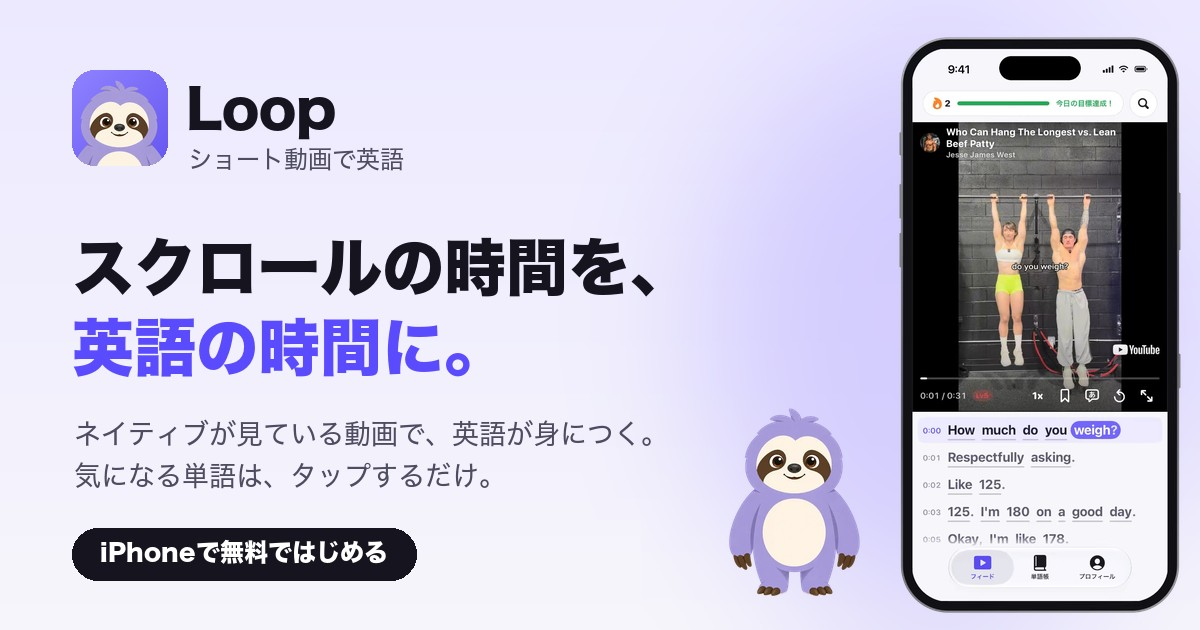
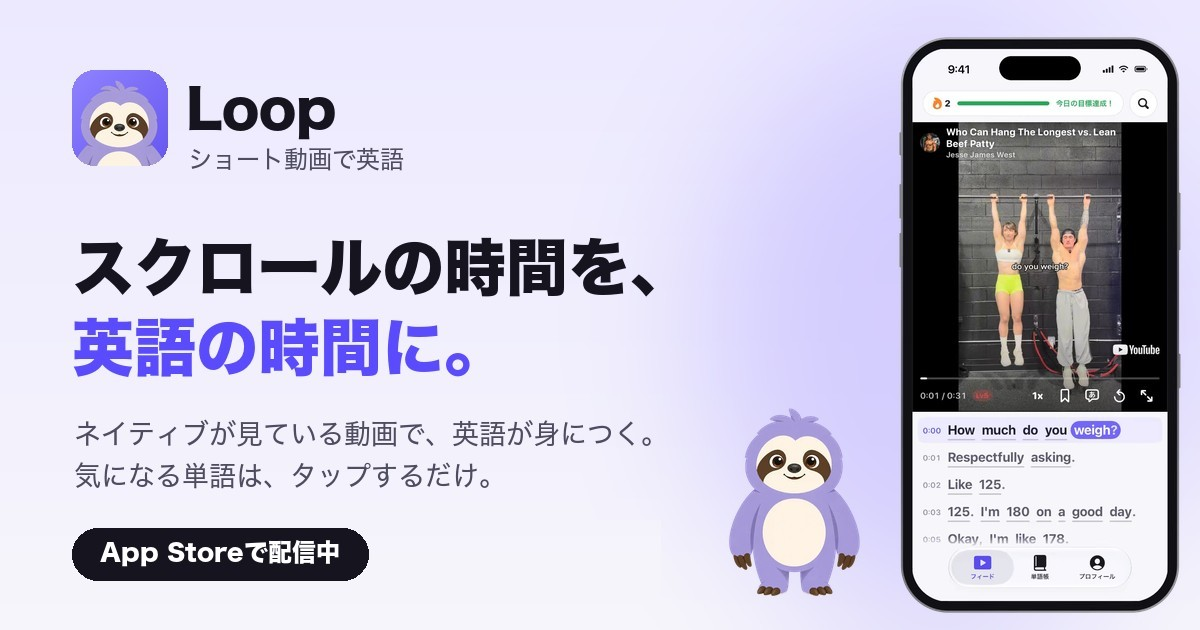
Landing: no prices, light only, the feed screen first; header button 「はじめる」

Changed region(s): [[0.0617, 0.8143, 0.37, 0.9349]]

diff --git a/index.html b/index.html
@@ -6,9 +6,8 @@
 <title>Loop — ショート動画で英語｜スクロールの時間を、英語の時間に。</title>
 <meta name="description" content="Loopは、ネイティブが本当に見ているショート動画で英語が身につくiPhoneアプリ。字幕の単語をタップすれば、その場面での意味がすぐわかる。保存した単語は、出会った動画の場面と一緒に復習できます。">
 <link rel="canonical" href="https://loop-eigo.pages.dev/">
-<meta name="theme-color" content="#F6F5FB" media="(prefers-color-scheme: light)">
-<meta name="theme-color" content="#0E0E14" media="(prefers-color-scheme: dark)">
-<meta name="color-scheme" content="light dark">
+<meta name="theme-color" content="#F6F5FB">
+<meta name="color-scheme" content="light">
 
 <!-- Safari on iOS: the native "App Store で見る" banner. -->
 <meta name="apple-itunes-app" content="app-id=6817213177">
@@ -27,7 +26,7 @@
 <meta property="og:locale" content="ja_JP">
 <meta name="twitter:card" content="summary_large_image">
 
-<link rel="preload" as="image" href="assets/demo-poster.webp">
+<link rel="preload" as="image" href="assets/shot-feed.webp">
 <link rel="stylesheet" href="assets/landing.css">
 <script>document.documentElement.classList.add('js')</script>
 
@@ -41,8 +40,7 @@
   "description": "ネイティブが見ているショート動画で英語が身につくiPhoneアプリ。",
   "url": "https://loop-eigo.pages.dev/",
   "downloadUrl": "https://apps.apple.com/jp/app/id6817213177",
-  "image": "https://loop-eigo.pages.dev/assets/icon-256.png",
-  "offers": { "@type": "Offer", "price": "0", "priceCurrency": "JPY" }
+  "image": "https://loop-eigo.pages.dev/assets/icon-256.png"
 }
 </script>
 </head>
@@ -57,7 +55,7 @@
       <img src="assets/icon-256.png" width="36" height="36" alt="">
       <span>Loop</span>
     </a>
-    <a class="top__cta" href="get/?s=site-header">無料ではじめる</a>
+    <a class="top__cta" href="get/?s=site-header">はじめる</a>
   </div>
 </header>
 
@@ -80,19 +78,12 @@
           <a class="badge" href="get/?s=site-hero">
             <img src="assets/appstore-badge.svg" width="152" height="56" alt="App Store からダウンロード">
           </a>
-          <p class="get__note">無料ではじめられます<span class="pc" aria-hidden="true">・</span><br class="sp">iPhone専用（iOS 17以降）</p>
         </div>
       </div>
 
       <div class="hero__visual">
         <div class="glow" aria-hidden="true"></div>
-        <!-- The app in use: the founder's recording, rendered with a transparent
-             background (HEVC with alpha). Only WebKit plays that with its alpha, so
-             landing.js adds the video source there; everywhere else, and with Reduce
-             Motion, the still frame (the poster) stays. -->
-        <video class="demo" id="demo" muted loop playsinline preload="none"
-               poster="assets/demo-poster.webp" width="720" height="1080"
-               aria-label="Loopの画面：動画の字幕の単語をタップして、意味を保存するところ"></video>
+        <figure class="screen screen--hero"><img src="assets/shot-feed.webp" width="600" height="1128" alt="フィード：ショート動画と、単語ごとに光る英語字幕と日本語訳"></figure>
         <img class="hero__sloth" src="assets/mascot.webp" width="480" height="480" alt="">
       </div>
     </div>
@@ -121,7 +112,15 @@
           <h3 class="h3">見る</h3>
           <p>おすすめのショート動画を、いつものようにスクロール。英語の字幕と日本語訳つきで、いまどの単語を話しているかがひと目でわかります。</p>
         </div>
-        <figure class="screen"><img src="assets/shot-feed.webp" width="600" height="1128" loading="lazy" alt="フィード：ショート動画と、単語ごとに光る英語字幕と日本語訳"></figure>
+        <!-- The app in use: the founder's recording, rendered with a transparent
+             background (HEVC with alpha). Only WebKit plays that with its alpha, so
+             landing.js adds the video source there; everywhere else, and with Reduce
+             Motion, the still frame (the poster) stays. -->
+        <figure class="demo-wrap">
+          <video class="demo" id="demo" muted loop playsinline preload="none"
+                 poster="assets/demo-poster.webp" width="720" height="1080"
+                 aria-label="Loopの画面：動画の字幕の単語をタップして、意味を保存するところ"></video>
+        </figure>
       </article>
 
       <article class="step step--flip reveal">
@@ -223,29 +222,6 @@
     </div>
   </section>
 
-  <!-- ===================================================== Pricing -->
-  <section class="pricing" id="pricing">
-    <div class="wrap">
-      <h2 class="h2 center">料金</h2>
-      <p class="sub center"><span class="nb">無料ではじめて、</span><span class="nb">続けたくなったらプレミアムへ。</span></p>
-      <div class="plans">
-        <div class="plan plan--best reveal">
-          <p class="plan__tag">いちばんお得</p>
-          <h3>年額プラン</h3>
-          <p class="plan__price">¥2,980<span>／年</span></p>
-          <p class="plan__per">1か月あたり 約¥248</p>
-          <p class="plan__trial">1週間の無料トライアルつき</p>
-        </div>
-        <div class="plan reveal">
-          <h3>月額プラン</h3>
-          <p class="plan__price">¥490<span>／月</span></p>
-          <p class="plan__per">いつでも解約できます</p>
-        </div>
-      </div>
-      <p class="fine">プレミアムでは、動画も単語の意味も単語帳も、制限なく使えます。料金は税込です。解約はiPhoneの「設定」からいつでも可能で、無料トライアル中に解約すれば料金はかかりません。</p>
-    </div>
-  </section>
-
   <!-- ===================================================== FAQ -->
   <section class="faq" id="faq">
     <div class="wrap wrap--narrow">
@@ -259,20 +235,12 @@
         <p>はい。動画はLv1〜Lv5のレベルに分かれていて、日本語訳を表示したり、再生速度を落としたりできます。わからない単語はタップすれば、その場面での意味がわかります。</p>
       </details>
       <details>
-        <summary>無料で使えますか？</summary>
-        <p>無料ではじめられます。すべての機能を制限なく使うには、プレミアム（年額¥2,980・1週間の無料トライアルつき、または月額¥490）をご利用ください。</p>
-      </details>
-      <details>
         <summary>アカウント登録は必要ですか？</summary>
         <p>必要ありません。保存した単語や学習の記録は、お使いのiPhoneの中に保存されます。</p>
       </details>
       <details>
         <summary>Androidでも使えますか？</summary>
         <p>いまはiPhone専用です（iOS 17以降）。</p>
-      </details>
-      <details>
-        <summary>解約するには？</summary>
-        <p>iPhoneの「設定」→ Apple ID →「サブスクリプション」→「Loop」から解約できます。現在の期間が終わる24時間前までに解約すると、次回の更新はされません。</p>
       </details>
       <p class="faq__more">そのほかのご質問は <a href="support/">サポート</a> へ。</p>
     </div>
@@ -286,7 +254,6 @@
       <a class="badge" href="get/?s=site-footer">
         <img src="assets/appstore-badge.svg" width="152" height="56" alt="App Store からダウンロード">
       </a>
-      <p class="get__note">無料ではじめられます・iPhone専用</p>
     </div>
   </section>
 

diff --git a/assets/landing.css b/assets/landing.css
@@ -1,7 +1,7 @@
 /* Loop — landing page.
  * Phone first (most visitors come from Instagram / TikTok on an iPhone), then wider
  * layouts from 760px and 1040px. Colors are the app's (Design/Theme.swift): electric
- * indigo for the brand, lime for the word being said; light and dark follow the system.
+ * indigo for the brand, lime for the word being said. Light only (the founder, 2026-10-03).
  * No web fonts: the system's Hiragino on iPhone, and nothing to wait for in an in-app
  * browser. */
 
@@ -22,23 +22,7 @@
   --shadow: 0 24px 60px -24px rgba(48, 36, 140, .35), 0 8px 20px -12px rgba(21, 20, 31, .18);
   --radius: 22px;
   --gutter: 20px;
-  color-scheme: light dark;
-}
-@media (prefers-color-scheme: dark) {
-  :root {
-    --bg: #0E0E14;
-    --bg-2: #15141E;
-    --card: #1A1A24;
-    --ink: #F5F5FA;
-    --ink-2: #BDBCD0;
-    --ink-3: #85849B;
-    --line: #2A2936;
-    --accent: #7C6FFF;
-    --accent-ink: #A99FFF;
-    --accent-soft: #2A2550;
-    --bezel: #2C2B38;
-    --shadow: 0 24px 60px -24px rgba(0, 0, 0, .7), 0 8px 20px -12px rgba(0, 0, 0, .5);
-  }
+  color-scheme: light;
 }
 
 *, *::before, *::after { box-sizing: border-box; }
@@ -133,9 +117,11 @@ section { padding: 72px 0; }
   background: radial-gradient(closest-side, rgba(124, 111, 255, .45), rgba(124, 111, 255, 0));
   filter: blur(10px);
 }
-.demo { position: relative; width: 100%; height: auto; aspect-ratio: 2 / 3; }
+.screen--hero { position: relative; width: min(66vw, 300px); }
+.demo-wrap { margin: 0 auto; width: min(86vw, 400px); }
+.demo { width: 100%; height: auto; aspect-ratio: 2 / 3; }
 .hero__sloth {
-  position: absolute; left: -6%; bottom: 2%; width: 34%; height: auto;
+  position: absolute; left: -4%; bottom: -2%; width: 36%; height: auto;
   filter: drop-shadow(0 10px 18px rgba(48, 36, 140, .25));
   animation: bob 4.8s ease-in-out infinite;
 }
@@ -147,15 +133,12 @@ section { padding: 72px 0; }
   .hero__copy { text-align: left; }
   .lead { margin-left: 0; }
   .get { align-items: flex-start; }
-  .hero__visual { margin: 0 0 0 auto; width: 440px; }
+  .hero__visual { margin: 0 0 0 auto; width: 420px; }
 }
 
 /* ---------------------------------------------------------------- Subtitle ribbon */
 
 .ribbon { padding: 34px 0 30px; background: #0E0E14; color: #F5F5FA; text-align: center; }
-@media (prefers-color-scheme: dark) {
-  .ribbon { background: #17162A; border-top: 1px solid var(--line); border-bottom: 1px solid var(--line); }
-}
 .karaoke {
   font-size: clamp(1.25rem, 5.6vw, 2.1rem); font-weight: 800; line-height: 1.7;
   letter-spacing: .01em; font-feature-settings: normal;
@@ -260,30 +243,6 @@ section { padding: 72px 0; }
   .features__in { grid-template-columns: 1fr 300px; gap: 64px; }
   .features .h2 { text-align: left; }
 }
-
-/* ---------------------------------------------------------------- Pricing */
-
-.plans { display: grid; gap: 16px; max-width: 640px; margin: 0 auto; }
-.plan {
-  position: relative; padding: 26px 22px 22px; border-radius: var(--radius);
-  background: var(--card); border: 1px solid var(--line); text-align: center;
-}
-.plan--best { border: 2px solid var(--accent); box-shadow: var(--shadow); }
-.plan__tag {
-  position: absolute; top: -13px; left: 50%; transform: translateX(-50%); margin: 0;
-  padding: 3px 14px; border-radius: 999px; background: var(--accent); color: #fff;
-  font-size: .78rem; font-weight: 800; letter-spacing: .06em; white-space: nowrap;
-}
-.plan h3 { margin: 0 0 6px; font-size: 1.05rem; font-weight: 800; }
-.plan__price { margin: 0; font-size: 2.3rem; font-weight: 900; line-height: 1.3; letter-spacing: .01em; }
-.plan__price span { font-size: 1rem; font-weight: 700; color: var(--ink-2); margin-left: 2px; }
-.plan__per { margin: 2px 0 0; color: var(--ink-3); font-size: .88rem; }
-.plan__trial {
-  display: inline-block; margin: 12px 0 0; padding: 5px 14px; border-radius: 999px;
-  background: var(--lime); color: var(--lime-ink); font-size: .85rem; font-weight: 800;
-}
-.fine { max-width: 640px; margin: 22px auto 0; color: var(--ink-3); font-size: .82rem; line-height: 1.8; text-align: center; }
-@media (min-width: 640px) { .plans { grid-template-columns: 1fr 1fr; align-items: stretch; } }
 
 /* ---------------------------------------------------------------- FAQ */
 

diff --git a/get/index.html b/get/index.html
@@ -6,8 +6,7 @@
 <title>Loop をダウンロード</title>
 <meta name="description" content="Loop（ショート動画で英語）を App Store で入手する。">
 <meta name="robots" content="noindex, follow">
-<meta name="theme-color" content="#F6F5FB" media="(prefers-color-scheme: light)">
-<meta name="theme-color" content="#0E0E14" media="(prefers-color-scheme: dark)">
+<meta name="theme-color" content="#F6F5FB">
 
 <!-- Safari on iOS shows a native "App Store で見る" banner from this. -->
 <meta name="apple-itunes-app" content="app-id=6817213177">

diff --git a/get/get.css b/get/get.css
@@ -18,18 +18,7 @@
   --ink-3: #8E8DA3;
   --line: #E4E2EF;
   --accent: #5B4BFF;
-  color-scheme: light dark;
-}
-@media (prefers-color-scheme: dark) {
-  :root {
-    --bg: #0E0E14;
-    --card: #1A1A24;
-    --ink: #F5F5FA;
-    --ink-2: #B9B8CC;
-    --ink-3: #807F96;
-    --line: #2A2936;
-    --accent: #7C6FFF;
-  }
+  color-scheme: light;
 }
 
 *, *::before, *::after { box-sizing: border-box; }

diff --git a/style.css b/style.css
@@ -1,7 +1,4 @@
 :root { --bg: #ffffff; --ink: #15141f; --ink2: #4d4c60; --line: #e7e6ef; --accent: #5b4bff; }
-@media (prefers-color-scheme: dark) {
-  :root { --bg: #0e0e14; --ink: #f5f5fa; --ink2: #b9b8cc; --line: #2a2936; --accent: #8c80ff; }
-}
 * { box-sizing: border-box; }
 body {
   margin: 0; background: var(--bg); color: var(--ink);
